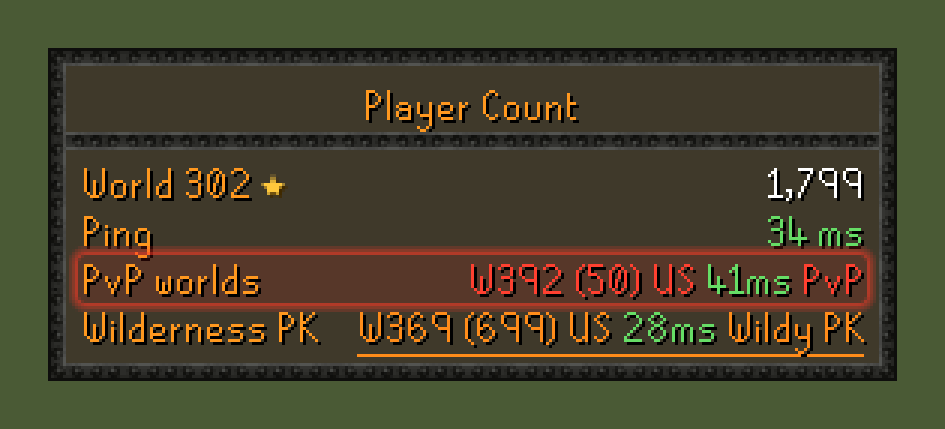
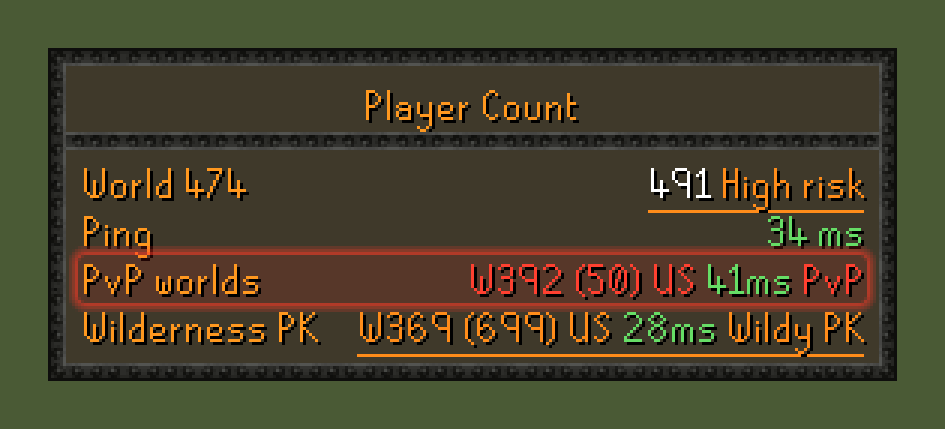
Risk colours wherever a world appears; LMS/PvP Arena orange; live favourites
- Red (pulsing) for absolute danger, orange (underlined) for every other
  PvP-themed world: now also LMS and PvP Arena.
- Applied to the world you're on, activity-world lines and the sidebar's
  world card, not just the suggestion; underline is orange when flagged.
- Starring in the sidebar saves '302, 330' to Favourite worlds and nudges
  RuneLite's settings panel to redraw so the list updates while open.

Changed region(s): [[0.6751, 0.3939, 0.9206, 0.5152], [0.1841, 0.3939, 0.3069, 0.4848]]

diff --git a/src/main/java/com/playercount/PlayerCountOverlay.java b/src/main/java/com/playercount/PlayerCountOverlay.java
@@ -320,8 +320,9 @@ class PlayerCountOverlay extends Overlay
 			int players = plugin.currentWorldPlayers();
 			Color color = players > config.busyThreshold() ? DOWN : Color.WHITE;
 			String count = players < 0 ? "?" : String.format("%,d", players);
-			items.add(change(OverlayLayout.Item.line((mini ? "W" : "World ") + plugin.currentWorld()).add(count, color), color, plugin.currentWorldChange())
-				.star(plugin.isFavourite(plugin.currentWorld())));
+			OverlayLayout.Item here = change(OverlayLayout.Item.line((mini ? "W" : "World ") + plugin.currentWorld()).add(count, color), color, plugin.currentWorldChange())
+				.star(plugin.isFavourite(plugin.currentWorld()));
+			items.add(flagRisk(here, plugin.currentWorldInfo(), !mini));
 		}
 
 		WorldStats.Totals totals = plugin.getTotals();
@@ -418,7 +419,7 @@ class PlayerCountOverlay extends Overlay
 		for (Map.Entry<String, World> e : plugin.activityWorlds().entrySet())
 		{
 			World w = e.getValue();
-			items.add(OverlayLayout.Item.line(e.getKey()).add(w == null ? "none" : worldText(w, false), w == null ? MUTED : Color.WHITE).target(w));
+			items.add(flagRisk(OverlayLayout.Item.line(e.getKey()).add(w == null ? "none" : worldText(w, false), w == null ? MUTED : Color.WHITE).target(w), w, !mini));
 		}
 
 		if (config.showRecords())
@@ -482,6 +483,26 @@ class PlayerCountOverlay extends Overlay
 			default:
 				return "Quiet";
 		}
+	}
+
+	/**
+	 * Marks a line red (pulsing) for worlds where you can be attacked almost anywhere, or orange (underlined)
+	 * for other PvP-themed and separate-account worlds, and adds a short tag like "High risk".
+	 */
+	private OverlayLayout.Item flagRisk(OverlayLayout.Item item, World w, boolean tag)
+	{
+		String risk = w == null || !config.warnRisky() ? null : WorldStats.risk(w);
+		if (risk == null)
+		{
+			return item;
+		}
+		boolean deadly = WorldStats.deadly(w);
+		Color c = deadly ? OverlayLayout.RISK : OverlayLayout.CAUTION;
+		if (tag)
+		{
+			item.add(" " + risk, c);
+		}
+		return item.warn(deadly).pulse(deadly).caution(!deadly);
 	}
 
 	/** Appends the +/- in green/red (or the value's colour if colouring is off). */

diff --git a/src/main/java/com/playercount/PlayerCountPlugin.java b/src/main/java/com/playercount/PlayerCountPlugin.java
@@ -57,6 +57,8 @@ import net.runelite.client.config.Notification;
 import net.runelite.client.eventbus.Subscribe;
 import net.runelite.client.events.ClientShutdown;
 import net.runelite.client.events.ConfigChanged;
+import net.runelite.client.events.PluginChanged;
+import net.runelite.client.eventbus.EventBus;
 import net.runelite.client.events.WorldsFetch;
 import net.runelite.client.game.WorldService;
 import net.runelite.client.input.KeyManager;
@@ -149,6 +151,9 @@ public class PlayerCountPlugin extends Plugin
 
 	@Inject
 	private MouseManager mouseManager;
+
+	@Inject
+	private EventBus eventBus;
 
 	/** Left-clicks on the overlay's world lines hop there. */
 	private final MouseAdapter overlayClicks = new MouseAdapter()
@@ -737,6 +742,13 @@ public class PlayerCountPlugin extends Plugin
 		return client.getWorld();
 	}
 
+	/** The world you're on, from the latest list, or null. */
+	World currentWorldInfo()
+	{
+		WorldResult latest = latest();
+		return latest == null ? null : latest.findWorld(client.getWorld());
+	}
+
 	private static int playersOn(WorldResult result, int id)
 	{
 		if (result == null)
@@ -1263,7 +1275,9 @@ public class PlayerCountPlugin extends Plugin
 		}
 		favorites = Collections.unmodifiableSet(next);
 		configManager.setConfiguration(PlayerCountConfig.GROUP, PlayerCountConfig.FAVORITES_KEY,
-			next.stream().map(String::valueOf).collect(Collectors.joining(",")));
+			next.stream().map(String::valueOf).collect(Collectors.joining(", ")));
+		// RuneLite's settings panel only redraws on a plugin change, so nudge it to show the new list.
+		eventBus.post(new PluginChanged(this, true));
 		clientThread.invokeLater(() ->
 		{
 			updateSuggestion();

diff --git a/src/main/java/com/playercount/OverlayLayout.java b/src/main/java/com/playercount/OverlayLayout.java
@@ -205,7 +205,7 @@ final class OverlayLayout
 					: new GraphComponent(item.graph, item.now, item.window));
 				continue;
 			}
-			RichLineComponent c = new RichLineComponent(item.label, label).track(item.hitBox).underline(item.hovered || item.caution).star(item.star).glow(item.warn, item.pulse);
+			RichLineComponent c = new RichLineComponent(item.label, label).track(item.hitBox).underline(item.hovered || item.caution).underlineColor(item.caution ? CAUTION : null).star(item.star).glow(item.warn, item.pulse);
 			for (RichLineComponent.Part p : item.parts)
 			{
 				c.add(p.getText(), p.getColor());
@@ -352,7 +352,7 @@ final class OverlayLayout
 					}
 					if ((item.hovered || item.caution) && vw > 0)
 					{
-						g.setColor(item.parts.get(0).getColor());
+						g.setColor(item.caution ? CAUTION : item.parts.get(0).getColor());
 						g.drawLine(vx, base + 2, vx + vw - 1, base + 2);
 					}
 				}
@@ -379,7 +379,7 @@ final class OverlayLayout
 					if ((item.hovered || item.caution) && vw > 0)
 					{
 						int uy = ty + small.getHeight() + value.getAscent() + 2;
-						g.setColor(item.parts.get(0).getColor());
+						g.setColor(item.caution ? CAUTION : item.parts.get(0).getColor());
 						g.drawLine(vx, uy, vx + vw - 1, uy);
 					}
 					for (RichLineComponent.Part p : item.parts)

diff --git a/src/main/java/com/playercount/RichLineComponent.java b/src/main/java/com/playercount/RichLineComponent.java
@@ -31,6 +31,7 @@ class RichLineComponent implements LayoutableRenderableEntity
 	private final List<Part> right = new ArrayList<>();
 	private Rectangle tracked;
 	private boolean underline;
+	private Color underlineColor;
 	private boolean star;
 	private boolean glow;
 	private boolean pulse;
@@ -65,6 +66,13 @@ class RichLineComponent implements LayoutableRenderableEntity
 	RichLineComponent underline(boolean on)
 	{
 		this.underline = on;
+		return this;
+	}
+
+	/** Underline in this colour instead of the value's (e.g. orange for a risky world). */
+	RichLineComponent underlineColor(Color c)
+	{
+		this.underlineColor = c;
 		return this;
 	}
 
@@ -132,7 +140,7 @@ class RichLineComponent implements LayoutableRenderableEntity
 		int rx = x + preferredSize.width - rightWidth(fm);
 		if (underline && !right.isEmpty())
 		{
-			g2(graphics, right.get(0).getColor(), rx, baseline + 2, rightWidth(fm));
+			g2(graphics, underlineColor != null ? underlineColor : right.get(0).getColor(), rx, baseline + 2, rightWidth(fm));
 		}
 		for (Part p : right)
 		{

diff --git a/src/test/java/com/playercount/FinderAndStorageTest.java b/src/test/java/com/playercount/FinderAndStorageTest.java
@@ -113,7 +113,8 @@ public class FinderAndStorageTest
 		World pvp = WorldStats.pick(worlds, base().theme(WorldTheme.PVP).mode(WorldStats.Mode.THEMED_BUSIEST).build());
 		assertEquals(325, pvp.getId());
 		assertEquals("PvP", WorldStats.risk(pvp));
-		assertNull(WorldStats.risk(worlds.get(5))); // LMS is a safe minigame
+		assertEquals("LMS", WorldStats.risk(worlds.get(5))); // PvP-themed: orange, not deadly
+		assertTrue(!WorldStats.deadly(worlds.get(5)));
 		World wildy = themed(369, 699, "Wilderness PK - Members");
 		assertEquals("Wildy PK", WorldStats.risk(wildy));
 		assertTrue(!WorldStats.deadly(wildy)); // only the Wilderness is dangerous
@@ -172,7 +173,8 @@ public class FinderAndStorageTest
 		assertEquals("PvP high risk", WorldStats.risk(w));
 		assertTrue(WorldStats.deadly(w));
 		World arena = themed(348, 300, "PvP Arena (Legacy Duels)");
-		assertNull(WorldStats.risk(arena)); // safe, so not coloured
+		assertEquals("PvP Arena", WorldStats.risk(arena)); // PvP-themed: orange
+		assertTrue(!WorldStats.deadly(arena));
 	}
 
 	@Test

diff --git a/src/main/java/com/playercount/PlayerCountConfig.java b/src/main/java/com/playercount/PlayerCountConfig.java
@@ -230,7 +230,7 @@ public interface PlayerCountConfig extends Config
 		return ThemedOrder.BUSIEST;
 	}
 
-	@ConfigItem(keyName = "warnRisky", name = "Warn on risky worlds", description = "Themed worlds can include risky worlds. PvP and Deadman worlds (attackable almost anywhere) pulse red; High Risk, Bounty Hunter, Wilderness PK, Leagues, beta, speedrun and fresh-start worlds are orange with an orange underline. Chat warns as you hop.", section = finderSection, position = 5)
+	@ConfigItem(keyName = "warnRisky", name = "Warn on risky worlds", description = "Themed worlds can include risky worlds. PvP and Deadman worlds (attackable almost anywhere) pulse red; other PvP-themed worlds (High Risk, Bounty Hunter, Wilderness PK, LMS, PvP Arena) and separate-account worlds (Leagues, beta, speedrun, fresh start) are orange with an orange underline. Chat warns as you hop.", section = finderSection, position = 5)
 	default boolean warnRisky()
 	{
 		return true;

diff --git a/src/main/java/com/playercount/WorldListPanel.java b/src/main/java/com/playercount/WorldListPanel.java
@@ -433,6 +433,7 @@ class WorldListPanel extends PluginPanel
 		if (current == null)
 		{
 			worldTitle.setText(s.getCurrentWorld() > 0 ? "World " + s.getCurrentWorld() : "Not logged in");
+			worldTitle.setForeground(Color.WHITE);
 			worldTitle.setIcon(null);
 			worldPlayers.setText(" ");
 			worldInfo.setText(" ");
@@ -441,6 +442,12 @@ class WorldListPanel extends PluginPanel
 		else
 		{
 			worldTitle.setText("World " + current.getId());
+			String hereRisk = s.isWarnRisky() ? WorldStats.risk(current) : null;
+			worldTitle.setForeground(hereRisk == null ? Color.WHITE : WorldStats.deadly(current) ? OverlayLayout.RISK : OverlayLayout.CAUTION);
+			if (hereRisk != null)
+			{
+				worldTitle.setText("World " + current.getId() + "  " + hereRisk);
+			}
 			boolean fav = s.getFavorites().contains(current.getId());
 			worldTitle.setIcon(fav ? STAR_ICON : null);
 			worldTitle.setToolTipText(fav ? "One of your favourite worlds" : null);

diff --git a/src/test/java/com/playercount/Showcase.java b/src/test/java/com/playercount/Showcase.java
@@ -136,7 +136,7 @@ public class Showcase
 
 		// Risky-world warning (Themed worlds)
 		List<OverlayLayout.Item> risky = new ArrayList<>();
-		risky.add(OverlayLayout.Item.line("World 302").add("1,799", Color.WHITE).star(true));
+		risky.add(OverlayLayout.Item.line("World 474").add("491", Color.WHITE).add(" High risk", OverlayLayout.CAUTION).caution(true));
 		risky.add(OverlayLayout.Item.line("Ping").add("34 ms", PlayerCountOverlay.UP));
 		risky.add(OverlayLayout.Item.line("PvP worlds").add("W392 (50) US", OverlayLayout.RISK).add(" 41ms", PlayerCountOverlay.UP).add(" PvP", OverlayLayout.RISK).warn(true));
 		risky.add(OverlayLayout.Item.line("Wilderness PK").add("W369 (699) US", OverlayLayout.CAUTION).add(" 28ms", PlayerCountOverlay.UP).add(" Wildy PK", OverlayLayout.CAUTION).caution(true));

diff --git a/src/main/java/com/playercount/WorldStats.java b/src/main/java/com/playercount/WorldStats.java
@@ -362,6 +362,15 @@ final class WorldStats
 		{
 			return "Wildy PK";
 		}
+		// PvP minigames: nothing to lose, but PvP all the same, so flagged orange like the Wilderness worlds
+		if (t.contains(WorldType.LAST_MAN_STANDING) || activity.startsWith("lms") || activity.contains("last man standing"))
+		{
+			return "LMS";
+		}
+		if (t.contains(WorldType.PVP_ARENA) || activity.contains("pvp arena"))
+		{
+			return "PvP Arena";
+		}
 		return null;
 	}
 

diff --git a/README.md b/README.md
@@ -58,9 +58,10 @@ Suggests a world and hops you there from a hotkey, the overlay's right-click men
   filter. Themed is the only mode that can
   suggest PvP, high-risk, Bounty Hunter, Deadman, Leagues, beta, speedrun or fresh-start worlds. PvP and
   Deadman worlds, where you can be attacked almost anywhere, **pulse red** in the overlay and
-  sidebar. High Risk, Bounty Hunter, Wilderness PK and separate-account worlds show in **orange with
-  an orange underline** instead of the usual green. Chat warns you as you hop. You can turn the
-  warnings off.
+  sidebar. Other PvP-themed worlds (High Risk, Bounty Hunter, Wilderness PK, LMS, PvP Arena) and
+  separate-account worlds show in **orange with an orange underline**. That applies wherever a world
+  appears: the world you're on, the suggestion, activity worlds and the sidebar. Chat warns you as you
+  hop. You can turn the warnings off.
 
   ![Risky world warning](docs/overlay-warning.png)
 - **Favourites**: the first theme. List worlds in the settings (`302, 330, 420`) or star them in the
